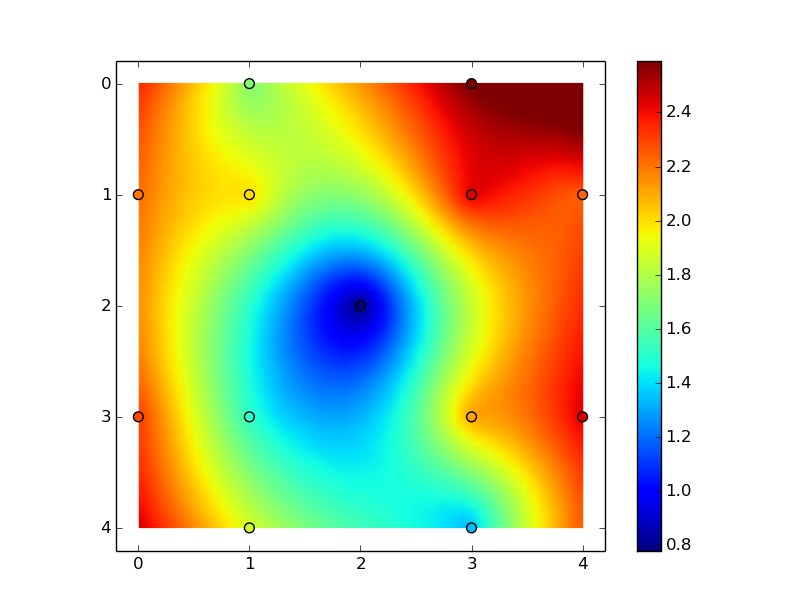
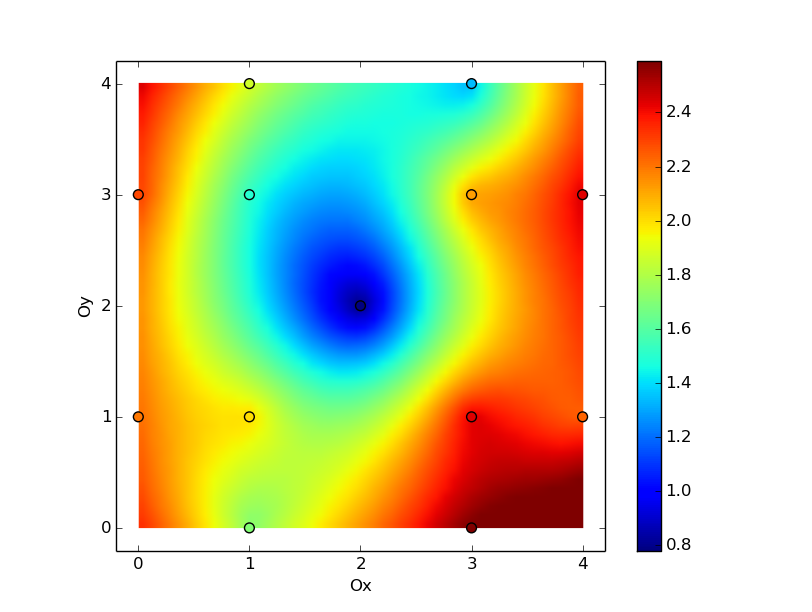
Remove unnecessary inversion of Y axis.

diff --git a/src/fingerprint_exp25.py b/src/fingerprint_exp25.py
@@ -227,9 +227,11 @@ def interpolate_data():
 
     plt.imshow(zi, vmin=z.min(), vmax=z.max(), origin='lower',
                 extent=[x.min(), x.max(), y.min(), y.max()])
-    plt.gca().invert_yaxis()
     plt.scatter(x, y, c=z, marker='o', s=50)
     plt.colorbar()
+    plt.xlabel('Ox')
+    plt.ylabel('Oy')
+
     plt.show()
 
 
@@ -253,6 +255,8 @@ if __name__ == '__main__':
         error = where_am_i(online_point)
         PLOT_3D_DATA_Z.append(error)
     print total_error
+    print 'mean', total_error / len(ONLINE_POINTS)
+    print 'median', np.median(PLOT_3D_DATA_Z)
 
     interpolate_data()
 
